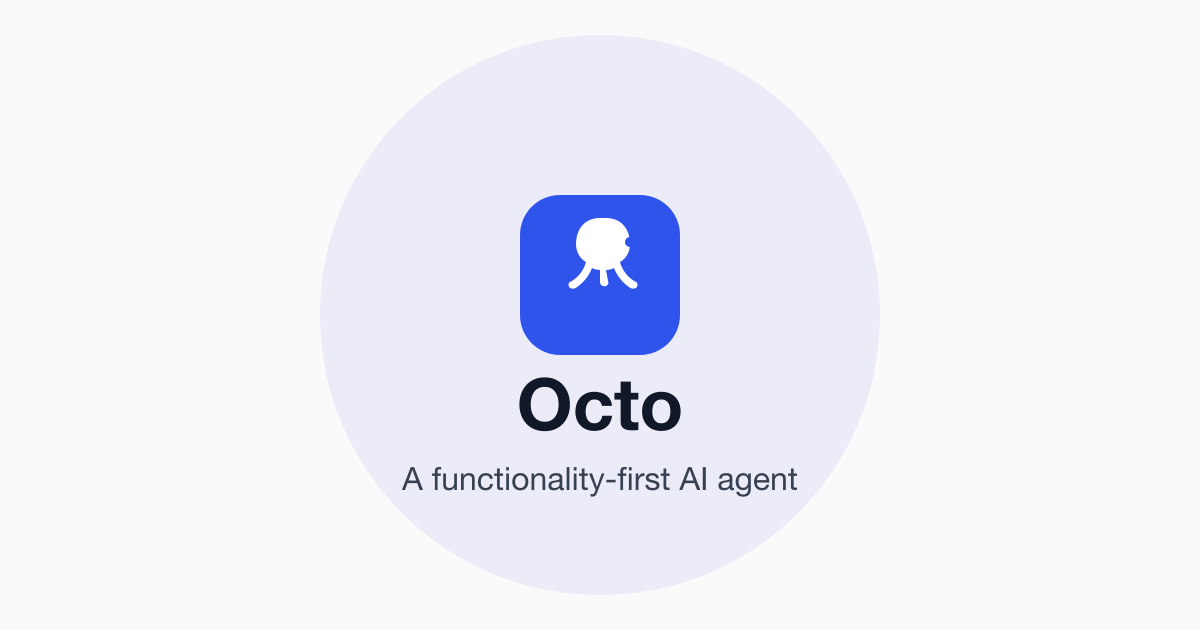
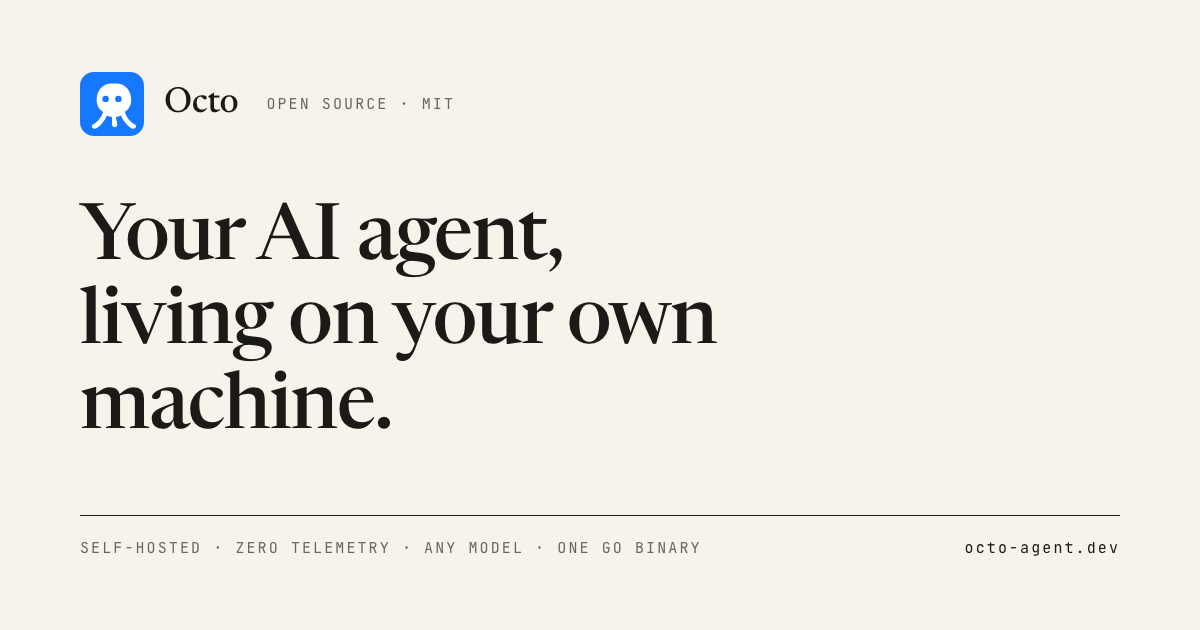
landing: redraw og-image.png to match the redesigned homepage (#2359)
The share card still said "A functionality-first AI agent" on a grey
background with an indigo logo, none of which matches the page any more.
Redraw it on the same paper/ink/serif system as the homepage with the current
headline and positioning line, rendered from landing/og-image.src.html with
the self-hosted fonts so future copy changes are a re-render, not a redraw.
The stale og-image.svg was referenced by nothing and is removed.

diff --git a/landing/og-image.src.html b/landing/og-image.src.html
@@ -1,0 +1,47 @@
+<!doctype html>
+<html lang="en">
+<head>
+<meta charset="utf-8">
+<title>og-image source</title>
+<!--
+  Source for og-image.png (1200×630, the card shown when octo-agent.dev is
+  shared on X / Slack / Feishu / WeChat). Render it with headless Chrome:
+
+    "/Applications/Google Chrome.app/Contents/MacOS/Google Chrome" \
+      --headless=new --disable-gpu --hide-scrollbars \
+      --window-size=1200,630 --force-device-scale-factor=1 \
+      --virtual-time-budget=3000 \
+      --screenshot=landing/og-image.png "file://$PWD/landing/og-image.src.html"
+
+  Fonts come from landing/fonts/ so the render matches the page.
+-->
+<style>
+  @font-face{font-family:"Newsreader";font-style:normal;font-weight:200 800;src:url(fonts/newsreader-latin.woff2) format("woff2");}
+  @font-face{font-family:"JetBrains Mono";font-style:normal;font-weight:400 800;src:url(fonts/jetbrains-mono-latin.woff2) format("woff2");}
+  html,body{margin:0;width:1200px;height:630px;overflow:hidden;}
+  body{background:#F7F3EA;color:#1C1A17;font-family:"Newsreader",Georgia,serif;-webkit-font-smoothing:antialiased;position:relative;}
+  .card{position:absolute;inset:0;padding:72px 80px;box-sizing:border-box;display:flex;flex-direction:column;justify-content:space-between;}
+  .top{display:flex;align-items:center;gap:20px;}
+  .top .name{font-size:36px;font-weight:500;letter-spacing:-.01em;}
+  .top .label{font-family:"JetBrains Mono",Menlo,monospace;font-size:15px;letter-spacing:.14em;color:#6B655B;margin-left:8px;}
+  h1{margin:0;font-size:78px;line-height:1.08;font-weight:500;letter-spacing:-.02em;max-width:900px;}
+  .bottom{display:flex;align-items:flex-end;justify-content:space-between;border-top:1px solid #1C1A17;padding-top:22px;}
+  .bottom .label{font-family:"JetBrains Mono",Menlo,monospace;font-size:15px;letter-spacing:.14em;color:#6B655B;}
+  .bottom .url{font-family:"JetBrains Mono",Menlo,monospace;font-size:15px;letter-spacing:.14em;color:#1C1A17;}
+</style>
+</head>
+<body>
+<div class="card">
+  <div class="top">
+    <svg width="64" height="64" viewBox="0 0 100 100" aria-hidden="true"><rect width="100" height="100" rx="22" fill="#1677FF"/><path fill="#fff" d="M50 18 C34 18 26 30 26 44 C26 54 32 60 36 62 C34 70 28 78 20 82 C18 83 18 86 20 88 C22 89 25 89 27 87 C33 83 39 76 42 68 C44 69 47 70 50 70 L50 82 C50 85 53 87 56 86 C58 85 59 83 58 81 L56 70 C59 70 62 69 64 68 C67 76 73 83 79 87 C81 89 84 89 86 88 C88 86 88 83 86 82 C78 78 72 70 70 62 C74 60 80 54 80 44 C80 30 72 18 56 18 Z"/><circle cx="40" cy="42" r="5" fill="#1677FF"/><circle cx="60" cy="42" r="5" fill="#1677FF"/></svg>
+    <span class="name">Octo</span>
+    <span class="label">OPEN SOURCE · MIT</span>
+  </div>
+  <h1>Your AI agent,<br>living on your own machine.</h1>
+  <div class="bottom">
+    <span class="label">SELF-HOSTED · ZERO TELEMETRY · ANY MODEL · ONE GO BINARY</span>
+    <span class="url">octo-agent.dev</span>
+  </div>
+</div>
+</body>
+</html>
